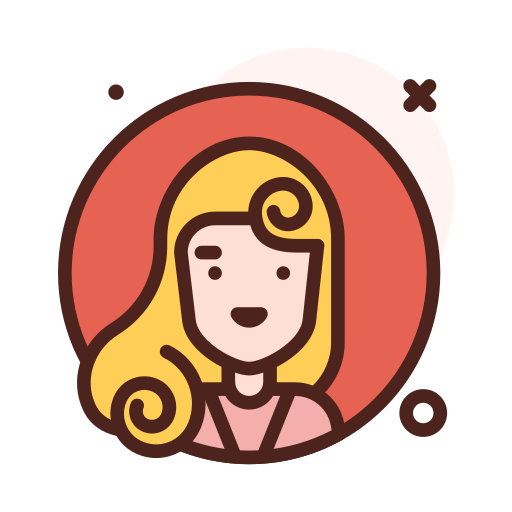
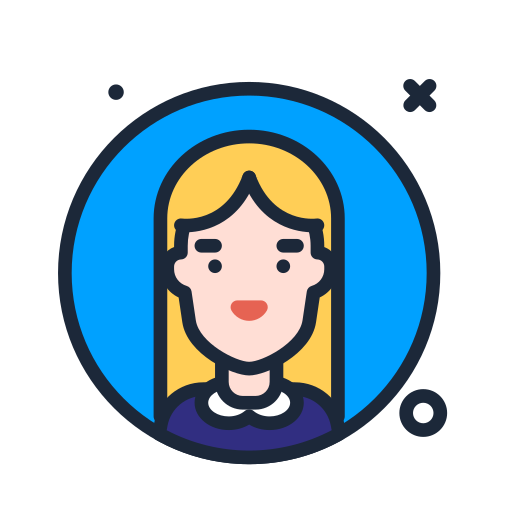
add background and updating components

diff --git a/src/components/Passport.tsx b/src/components/Passport.tsx
@@ -15,18 +15,32 @@ const Passport: React.FC<IPassportProps> = ({ data }) => {
     setIsOpen(!isOpen);
   };
 
+  const changeColor = () => {
+    const colors = {
+      red: { background: "linear-gradient(90deg, rgb(211 73 73) 80%, rgb(121 31 31) 100%)" },
+      blue: { background: "linear-gradient(90deg, rgba(33, 50, 75, 1) 80%, rgba(20, 33, 52, 1) 100%)" },
+      gray: { background: "linear-gradient(90deg, rgba(50,52,55,1) 80%, rgba(19,22,27,1) 100%)" },
+      purple: { background: "linear-gradient(90deg, rgba(91,33,176,1) 80%, rgba(46,16,96,1) 100%)" },
+      black: { background: "linear-gradient(90deg, rgba(13,13,13,1) 80%, rgba(0,0,0,1) 100%)" },
+      beige: { background: "linear-gradient(90deg, rgba(245,245,220,1) 80%, rgba(184,184,122,1) 100%)" },
+      green: { background: "linear-gradient(90deg, rgba(19,121,63,1) 80%, rgba(3,59,27,1) 100%)" },
+    };
+  
+    return colors[data.color as keyof typeof colors] || {}; 
+  };
+
   return (
     <>
       <div
         className={`book ${isOpen ? "open-book" : "closed-book"}`}
         onClick={handleClick}
       >
-        <div className={`back ${isOpen ? "open-back" : "closed-back"}`}></div>
+        <div className={`back ${isOpen ? "open-back" : "closed-back"}`} ></div>
         <div className={`page2 ${isOpen ? "open-page2" : "closed-page2"}`}>
           <div className="page2-content">
             <h1>INTERNATIONAL PASSPORT</h1>
             <div className="page2-container">
-              <img src={data.gender === 0 ? avatarf : avatarm} width={100} />
+              <img src={data.gender === 0 ? avatarm : avatarf} width={100} />
               <div className="input-container">
                 <div className="input-end">
                   <div className="input">
@@ -74,7 +88,7 @@ const Passport: React.FC<IPassportProps> = ({ data }) => {
             <div className="signature-text">Signature of Bearer</div>
           </div>
         </div>
-        <div className={`front ${isOpen ? "open-front" : "closed-front"}`}>
+        <div className={`front ${isOpen ? "open-front" : "closed-front"}`} style={changeColor()}>
           <h1>Passport</h1>
           <img src={brasao} width={150} />
           <h2>{data.city}</h2>

diff --git a/src/App.css b/src/App.css
@@ -67,12 +67,6 @@ body {
 }
 
 .front,
-.back {
-  background: #21324b;
-  background: linear-gradient(90deg,rgba(33, 50, 75, 1) 80%,rgba(20, 33, 52, 1) 100%);
-}
-
-.front,
 .back,
 .page1,
 .page2 {
@@ -218,9 +212,8 @@ body {
   flex-direction: column;
   align-items: flex-start;
   width: 35%;
-
 }
-z z
+
 .input-end {
   display: flex;
   align-items: flex-end;
@@ -257,7 +250,7 @@ z z
   display: flex;
   flex-direction: column;
   align-items: center;
-  margin-top: 112px;
+  margin-top: 108px;
   margin-right: 20px;
   transform: rotate(90deg) scaleX(-1);
 }

diff --git a/src/App.tsx b/src/App.tsx
@@ -17,7 +17,7 @@ debugData<boolean | IPassportData>([
       nationality: "Brasileiro",
       gender: 0,
       city: "Ribeirão Pires",
-      color: "red",
+      color: "black",
     },
   },
 ]);
